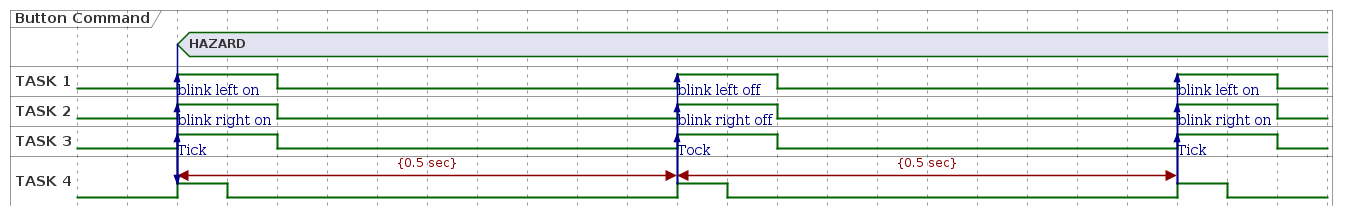
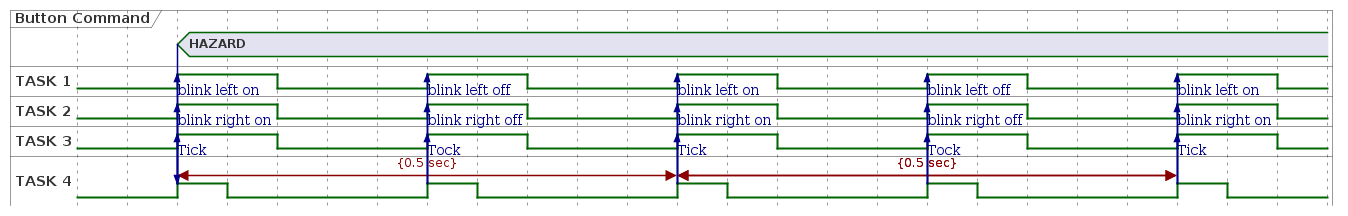
Fix uml diagrams to line up with 2 hz
remove c_cpp_properties.json

fix kalle comment in readme

update readme with 2 hz

diff --git a/README.md b/README.md
@@ -118,7 +118,7 @@ Notice that the lights are led segments with 4 individual leds for each light. T
 | Brake | On hold | Only REAR RIGHT and REAR LEFT headlights are on. |
 
 
-By fixed interval in the table above we mean it should be toggled at 1Hz. For the turn indicator, this would be according to the time diagram below. Note that we don't include tock sound. Cooler car brands do this. We don't know why:
+By fixed interval in the table above we mean it should be toggled at 2Hz. For the turn indicator, this would be according to the time diagram below. Note that we don't include tock sound. Cooler car brands do this. We don't know why:
 
 ![alt text](puml/png/tick_tock.png "Tick tock PUML")
 
@@ -129,7 +129,7 @@ In a normal car, when the hazard is on and the brake is issued, the hazard conti
 
 # Workshop preparation
 
-There are some preparations that it's good to do before the workshop begins.
+There are some preparations that we recommend you do before the workshop begins.
 
 ## Preparation
 
@@ -789,8 +789,8 @@ void vReceiveCallbackFunction( StreamBufferHandle_t xStreamBuffer,
 
 void vAFunction( void )
 {
-StreamBufferHandle_t xStreamBuffer, xStreamBufferWithCallback;
-const size_t xStreamBufferSizeBytes = 100, xTriggerLevel = 10;
+  StreamBufferHandle_t xStreamBuffer, xStreamBufferWithCallback;
+  const size_t xStreamBufferSizeBytes = 100, xTriggerLevel = 10;
 
     /* Create a stream buffer that can hold 100 bytes and uses the
      * functions defined using the sbSEND_COMPLETED() and
@@ -848,8 +848,8 @@ void vReceiveCallbackFunction( MessageBufferHandle_t xMessageBuffer,
 
 void vAFunction( void )
 {
-MessageBufferHandle_t xMessageBuffer, xMessageBufferWithCallback;
-const size_t xMessageBufferSizeBytes = 100;
+  MessageBufferHandle_t xMessageBuffer, xMessageBufferWithCallback;
+  const size_t xMessageBufferSizeBytes = 100;
 
     /* Create a message buffer that can hold 100 bytes and uses the
      * functions defined using the sbSEND_COMPLETED() and
@@ -996,49 +996,49 @@ example from FreeRTOS:
 
 static void vSyncingTask( void *pvParameters )
 {
-const TickType_t xMaxDelay = pdMS_TO_TICKS( 4000UL );
-const TickType_t xMinDelay = pdMS_TO_TICKS( 200UL );
-TickType_t xDelayTime;
-EventBits_t uxThisTasksSyncBit;
-const EventBits_t uxAllSyncBits = ( mainFIRST_TASK_BIT |
-mainSECOND_TASK_BIT |
-mainTHIRD_TASK_BIT );
-/* Three instances of this task are created - each task uses a different event
-bit in the synchronization. The event bit to use is passed into each task
-instance using the task parameter. Store it in the uxThisTasksSyncBit
-variable. */
-uxThisTasksSyncBit = ( EventBits_t ) pvParameters;
-for( ;; )
-{
-/* Simulate this task taking some time to perform an action by delaying for a
-pseudo random time. This prevents all three instances of this task reaching
-the synchronization point at the same time, and so allows the example’s
-behavior to be observed more easily. */
-xDelayTime = ( rand() % xMaxDelay ) + xMinDelay;
-vTaskDelay( xDelayTime );
-/* Print out a message to show this task has reached its synchronization
-point. pcTaskGetTaskName() is an API function that returns the name assigned
-to the task when the task was created. */
-vPrintTwoStrings( pcTaskGetTaskName( NULL ), "reached sync point" );
-/* Wait for all the tasks to have reached their respective synchronization
-points. */
-xEventGroupSync( /* The event group used to synchronize. */
-xEventGroup,
-/* The bit set by this task to indicate it has reached the
-synchronization point. */
-uxThisTasksSyncBit,
-/* The bits to wait for, one bit for each task taking part
-in the synchronization. */
-uxAllSyncBits,
-/* Wait indefinitely for all three tasks to reach the
-synchronization point. */
-portMAX_DELAY );
-/* Print out a message to show this task has passed its synchronization
-point. As an indefinite delay was used the following line will only be
-executed after all the tasks reached their respective synchronization
-points. */
-vPrintTwoStrings( pcTaskGetTaskName( NULL ), "exited sync point" );
-}
+  const TickType_t xMaxDelay = pdMS_TO_TICKS( 4000UL );
+  const TickType_t xMinDelay = pdMS_TO_TICKS( 200UL );
+  TickType_t xDelayTime;
+  EventBits_t uxThisTasksSyncBit;
+  const EventBits_t uxAllSyncBits = ( mainFIRST_TASK_BIT |
+                                    mainSECOND_TASK_BIT |
+                                    mainTHIRD_TASK_BIT );
+  /* Three instances of this task are created - each task uses a different event
+  bit in the synchronization. The event bit to use is passed into each task
+  instance using the task parameter. Store it in the uxThisTasksSyncBit
+  variable. */
+  uxThisTasksSyncBit = ( EventBits_t ) pvParameters;
+  for( ;; )
+  {
+    /* Simulate this task taking some time to perform an action by delaying for a
+    pseudo random time. This prevents all three instances of this task reaching
+    the synchronization point at the same time, and so allows the example’s
+    behavior to be observed more easily. */
+    xDelayTime = ( rand() % xMaxDelay ) + xMinDelay;
+    vTaskDelay( xDelayTime );
+    /* Print out a message to show this task has reached its synchronization
+    point. pcTaskGetTaskName() is an API function that returns the name assigned
+    to the task when the task was created. */
+    vPrintTwoStrings( pcTaskGetTaskName( NULL ), "reached sync point" );
+    /* Wait for all the tasks to have reached their respective synchronization
+    points. */
+    xEventGroupSync( /* The event group used to synchronize. */
+    xEventGroup,
+    /* The bit set by this task to indicate it has reached the
+    synchronization point. */
+    uxThisTasksSyncBit,
+    /* The bits to wait for, one bit for each task taking part
+    in the synchronization. */
+    uxAllSyncBits,
+    /* Wait indefinitely for all three tasks to reach the
+    synchronization point. */
+    portMAX_DELAY );
+    /* Print out a message to show this task has passed its synchronization
+    point. As an indefinite delay was used the following line will only be
+    executed after all the tasks reached their respective synchronization
+    points. */
+    vPrintTwoStrings( pcTaskGetTaskName( NULL ), "exited sync point" );
+  }
 }
 
 /* Definitions for the event bits in the event group. */
@@ -1050,21 +1050,21 @@ vPrintTwoStrings( pcTaskGetTaskName( NULL ), "exited sync point" );
 EventGroupHandle_t xEventGroup;
 int main( void )
 {
-/* Before an event group can be used it must first be created. */
-xEventGroup = xEventGroupCreate();
-/* Create three instances of the task. Each task is given a different name,
-which is later printed out to give a visual indication of which task is
-executing. The event bit to use when the task reaches its synchronization point
-is passed into the task using the task parameter. */
-xTaskCreate( vSyncingTask, "Task 1", 1000, mainFIRST_TASK_BIT, 1, NULL );
-xTaskCreate( vSyncingTask, "Task 2", 1000, mainSECOND_TASK_BIT, 1, NULL );
-xTaskCreate( vSyncingTask, "Task 3", 1000, mainTHIRD_TASK_BIT, 1, NULL );
-/* Start the scheduler so the created tasks start executing. */
-vTaskStartScheduler();
-/* As always, the following line should never be reached. */
-for( ;; );
-return 0;
-}
+  /* Before an event group can be used it must first be created. */
+  xEventGroup = xEventGroupCreate();
+  /* Create three instances of the task. Each task is given a different name,
+  which is later printed out to give a visual indication of which task is
+  executing. The event bit to use when the task reaches its synchronization point
+  is passed into the task using the task parameter. */
+  xTaskCreate( vSyncingTask, "Task 1", 1000, mainFIRST_TASK_BIT, 1, NULL );
+  xTaskCreate( vSyncingTask, "Task 2", 1000, mainSECOND_TASK_BIT, 1, NULL );
+  xTaskCreate( vSyncingTask, "Task 3", 1000, mainTHIRD_TASK_BIT, 1, NULL );
+  /* Start the scheduler so the created tasks start executing. */
+  vTaskStartScheduler();
+  /* As always, the following line should never be reached. */
+  for( ;; );
+    return 0;
+  }
 ```
 #### Output from example above:
 ![alt text](img/event_group.png "Output from event group example")
@@ -1083,13 +1083,13 @@ Implement logic so that the tasks can handle the HAZARD Button
 
 ## Step 4: Buzzer (TICK/TOCK sound)
 
-During a Turn indication there is a sound being played in the car to notify the driver. Some brands wants only a "Tick" when the LEDs goes from OFF -> ON and some wants both "Tick" and "Tock". Tick when LEDs goes from OFF -> ON and Tock when led goes from ON -> OFF. Implement a new task that handles the sound functionality
+During a Turn indication there is a sound being played in the car to notify the driver. Some brands wants only a "Tick" when the LEDs goes from OFF -> ON and some wants both "Tick" and "Tock". Tick when LEDs goes from OFF -> ON and Tock when led goes from ON -> OFF. Implement a new task that handles the sound functionality.
 
 ![alt text](puml/png/step_4.png "Step 4 PUML")
 
 ### Expected results:
 
-During HAZARD/TURN LEFT/TURN RIGHT commands there should be a Tick/Tock sound being played when the corresponding LEDs turns ON/OFF
+During HAZARD/TURN LEFT/TURN RIGHT commands there should be a sound being played when the corresponding LEDs are toggled. You can decide yourself if you want only Tick or both Tick/Tock sounds.
 
 ## Step 5: Periodicity
 
@@ -1100,13 +1100,12 @@ Introduce a periodicity so that when either HAZARD/LEFT/RIGHT Button is pressed,
 ![alt text](puml/png/step_5.png "Step 5 PUML")
 
 
-
 ### Handle shared resources
 Introduce FreeRTOS API to handle shared resources: semaphores etc.
 
 ### Expected results:
 
-When RIGHT/LEFT/HAZARD Button is pressed the corresponding leds should turn on/off with a frequency of 0.5 sec. Full periodicity of 1 sec. First button press will start the indicaton, second button press will stop the indicaton, if it is the same button. If you switch from LEFT to RIGHT, then the lights should change from LHS to RHS and not turn of the indication completley.   
+When RIGHT/LEFT/HAZARD Button is pressed the corresponding leds should turn on/off with a frequency of 0.5 sec. First button press will start the indicaton, second button press will stop the indicaton, if it is the same button. If you switch from LEFT to RIGHT, then the lights should change from LHS to RHS and not turn of the indication completley.   
 
 Example:
 
